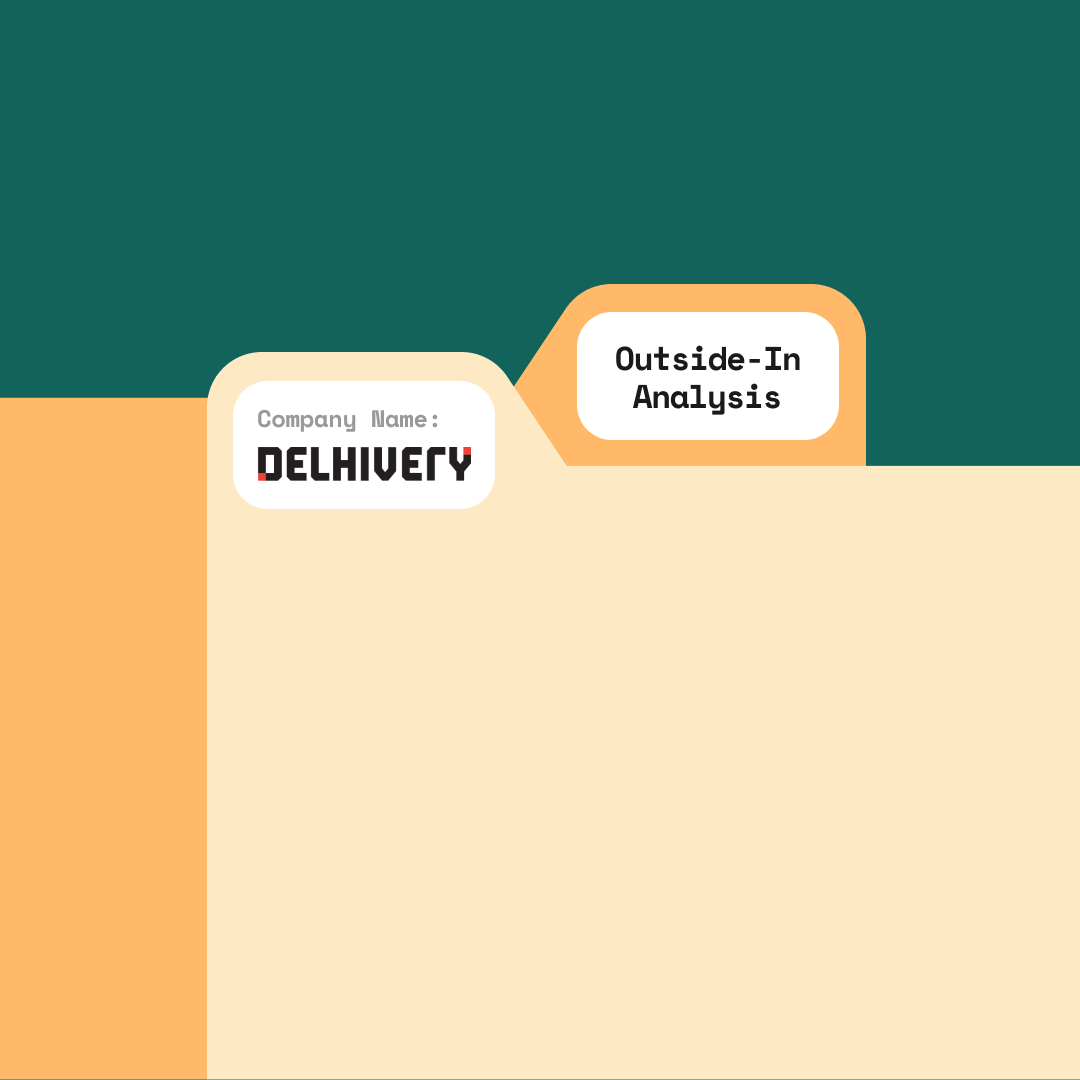
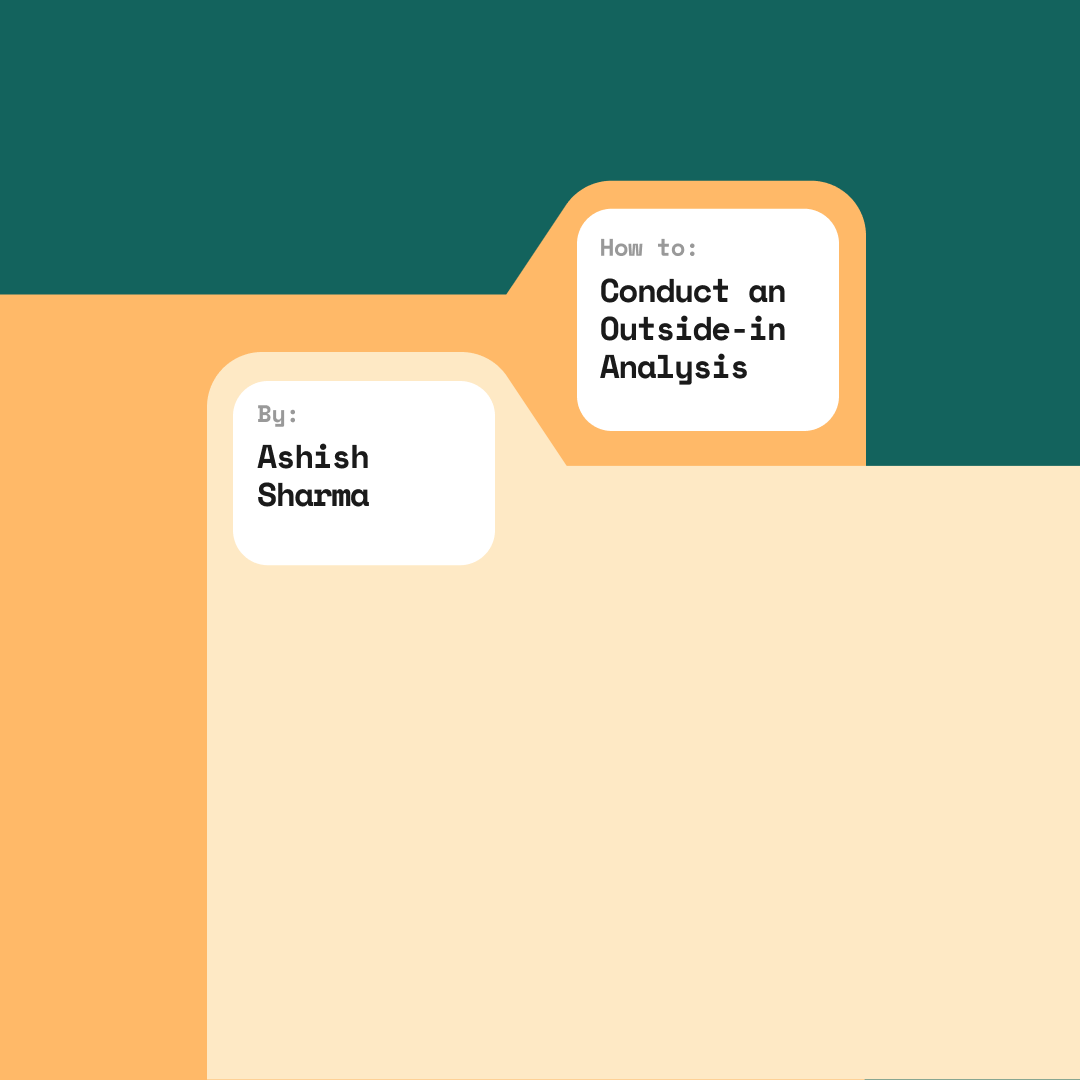
modified

diff --git a/src/app/page.tsx b/src/app/page.tsx
@@ -12,6 +12,7 @@ import Image from 'next/image';
 import AshishSharmaImg from '/public/ashish_sharma.png';
 import FontSwapBanner from '/public/font_swap_banner.png';
 import Script from 'next/script';
+import ArrowForwardIcon from '/public/arrow_icon.svg';
 
 export default function Home() {
 
@@ -77,16 +78,19 @@ export default function Home() {
             </Link> </h1>
 
             <p>
-            By day, I work as a UX Consultant at EY, using design to bring accessiblity to digital life. <br/><br/>
+            By day ☀, I work as a UX Consultant at EY, using design to bring accessiblity to digital life. <br/><br/>
             By the weekend, I&apos;m helping the community. I&apos;m developing a Figma plugin that lets users switch 
             fonts without compromising on font styles.
             </p>
             <br/> 
             <Link href={'https://www.figma.com/community/plugin/1246737736127570810/font-swap'} target='_blank' 
-            className='underline-offset-4 mt-4 underline text-blue-700'>
-              <h3>Try Font Swap Now!
-              </h3>
-              
+            className='button'>
+             Try Font Swap
+             <Image
+              src={ArrowForwardIcon}
+              alt="Black and white portait of Ashish Sharma"
+              sizes="100vw"
+              className='arrow_icon'/>
             </Link>
           </div>
           <div className='hero_image'>
@@ -95,7 +99,7 @@ export default function Home() {
               src={FontSwapBanner}
               alt="Black and white portait of Ashish Sharma"
               sizes="100vw"
-              className='project-image'/>
+              className='project_banner_1'/>
           </Link>
           </div>
         </div>
@@ -103,12 +107,14 @@ export default function Home() {
           <h4 className={isProject ? 'tab_active' : 'tab_default'} onClick={()=> setProject(true)}>My Projects</h4>
           <h4 className={!isProject ? 'tab_active' : 'tab_default'} onClick={()=> setProject(false)}>Articles</h4>
         </div> */}
-
-        {isProject ?
-        <ProjectsData/>
-        :
-        <ArticlesData/>
-        }
+        <div>
+          <p style={{fontWeight:"500", marginBottom:"-18px"}}>Special Projects ✨</p>
+          {isProject ?
+          <ProjectsData/>
+          :
+          <ArticlesData/>
+          }
+        </div>
       </div>
       <Footer/>
     </main>

diff --git a/src/app/globals.css b/src/app/globals.css
@@ -2,7 +2,6 @@
 @tailwind components;
 @tailwind utilities;
 
-
 :root {
   --foreground-rgb: 28,28,28;     /* Black text color for light mode */
   --background-start-rgb: 254, 254, 254;
@@ -163,10 +162,8 @@ ul {
 
 li .default{
   border: 1px solid transparent;
-  border-radius: 200px;
   padding: 0.2rem 1rem;
   font-weight: 460;
-  color: #7B797A;
 }
 
 a {
@@ -179,9 +176,10 @@ a:hover {
 
 li .active{
   border: 1px solid transparent;
-  border-radius: 200px;
-  padding: 0.4rem 1rem;
+  padding: 0.3rem 1rem;
   font-weight: 460;
+  color: #2c49cd;
+  font-weight: 600;
   text-decoration: underline;
 }
 
@@ -219,7 +217,27 @@ li .mobile_ui:hover{
 .button{
   background-color: #2c49cd;
   color: aliceblue;
-  padding: 0.8rem 1.4rem;
+  padding: 0.6rem 1rem;
+  font-weight: 500;
+  padding-right: 3.5rem;
+  text-align: center;
+  display: inline-flex;
+  text-decoration: none;
+  transition: 0.3s ease;
+  position: relative;
+}
+.button:hover{
+  text-decoration: none !important;
+}
+.arrow_icon {
+  position: absolute;
+  right: 15px; 
+  padding-top: 1px;
+  transition: right 0.3s ease;
+}
+
+.button:hover .arrow_icon {
+  right: 20px;
 }
 
 /* Designing everything in Grid */
@@ -242,6 +260,7 @@ li .mobile_ui:hover{
   object-fit: cover;
   width: 100%;
   height: 420px;
+  border-radius: 4px;
   transition: transform 0.3s ease;
 }
 
@@ -249,10 +268,24 @@ li .mobile_ui:hover{
   transform: translateY(-4px);
 }
 
+.project_banner_1{
+  object-fit: cover;
+  width: 100%;
+  height: 420px;
+  border-radius: 4px;
+  border-top-right-radius: 96px;
+  transition: transform 0.3s ease;
+}
+
+.project_banner_1:hover{
+  transform: translateY(-4px);
+}
+
 .ashish_image{
   object-fit: contain;
   width: auto;
   height: 420px;
+  border-radius: 4px;
   align-items: start;
 }
 
@@ -268,6 +301,7 @@ li .mobile_ui:hover{
   object-fit: cover;
   width: 100%;
   height: 196px;
+  border-radius: 4px;
   transition: transform 0.3s ease;
 }
 .article_image:hover{

diff --git a/src/app/ui/projects.tsx b/src/app/ui/projects.tsx
@@ -3,8 +3,6 @@
 import Image from 'next/image';
 import fontSwapImg from '/public/fontswap_2.jpg';
 import delhiveryPoster from '/public/Outside_in_poster.png'
-import salahkarImg from '/public/salahkar_3.png';
-import sanskritiImg from '/public/sanskriti_2.png';
 import rozgarImg from '/public/case_study_rozgar.jpg';
 import Link from 'next/link';
 import { animate, motion } from 'framer-motion';
@@ -16,15 +14,15 @@ export default function ProjectsData() {
       src: delhiveryPoster,
       alt: "Vector image of 2 folders with the label of outside-in analysis",
       href: "https://miro.com/app/board/uXjVMrWRtKY=/?share_link_id=492406900633",
-      new: "Work in Progress...",
-      heading: "Outside-In Analysis: Delhivery",
-      subHeading:"Conducting an outside-in analysis of one of the popular courier handeling brand in India."
+      new: "WIP: December 2023",
+      heading: "Conducting an Outside-In Analysis",
+      subHeading:"Outside-in analysis can deepen the understanding of product and customer experiences. Here's my insight from five sessions so far."
     },
     {
       src: fontSwapImg,
       alt: "Picture of a man using font swap plugin on his MacBook",
       href: "https://medium.com/ux-planet/ux-case-study-font-swap-building-a-figma-plugin-e9ec6905f2e3",
-      new: "Product Case Study",
+      new: "Product Case Study - June 2023",
       heading: "Font Swap: Switch mixed fonts",
       subHeading:"Font Swap is a Figma plugin specifically designed to address the font-changing challenge faced by UI designers."
     },

diff --git a/src/app/articles/page.tsx b/src/app/articles/page.tsx
@@ -1,9 +1,9 @@
 import NavBar from '../ui/navbar';
 import Footer from '../ui/footer';
-import ProjectsData from '../ui/projects';
 import { Metadata } from 'next';
 import Script from 'next/script';
 import ArticlesData from '../ui/articles';
+import Link from 'next/link';
 
 export const metadata: Metadata = {
   title: 'Projects | Ashish Sharma',
@@ -29,7 +29,7 @@ export default function Articles() {
         </Script>
           <NavBar/>
           <div className='items-left mt-32'>
-            <h1 className='md:w-5/6'>My Articles</h1>
+            <p style={{fontWeight:"500"}}>Check out my Articles on <Link href="https://ashishsauparna.medium.com">Medium</Link> 🔥 </p>
             <ArticlesData/>
           </div>
           <Footer/>

diff --git a/src/app/ui/footer.tsx b/src/app/ui/footer.tsx
@@ -27,8 +27,7 @@ export default function Footer() {
         </ul>
         
         <p className='text-gray-500 mt-4 leading-[2rem]'>
-        © Designed and developed by Ashish Sharma<br/>
-        Last updated August 2023
+        © Assembled with pixels by Ashish Sharma 2023
         </p>
       </footer>
   )

diff --git a/next.config.js b/next.config.js
@@ -1,6 +1,5 @@
-/** @type {import('next').NextConfig} */
-const nextConfig = {}
+
 
 module.exports = {
-    nextConfig
+
 }
